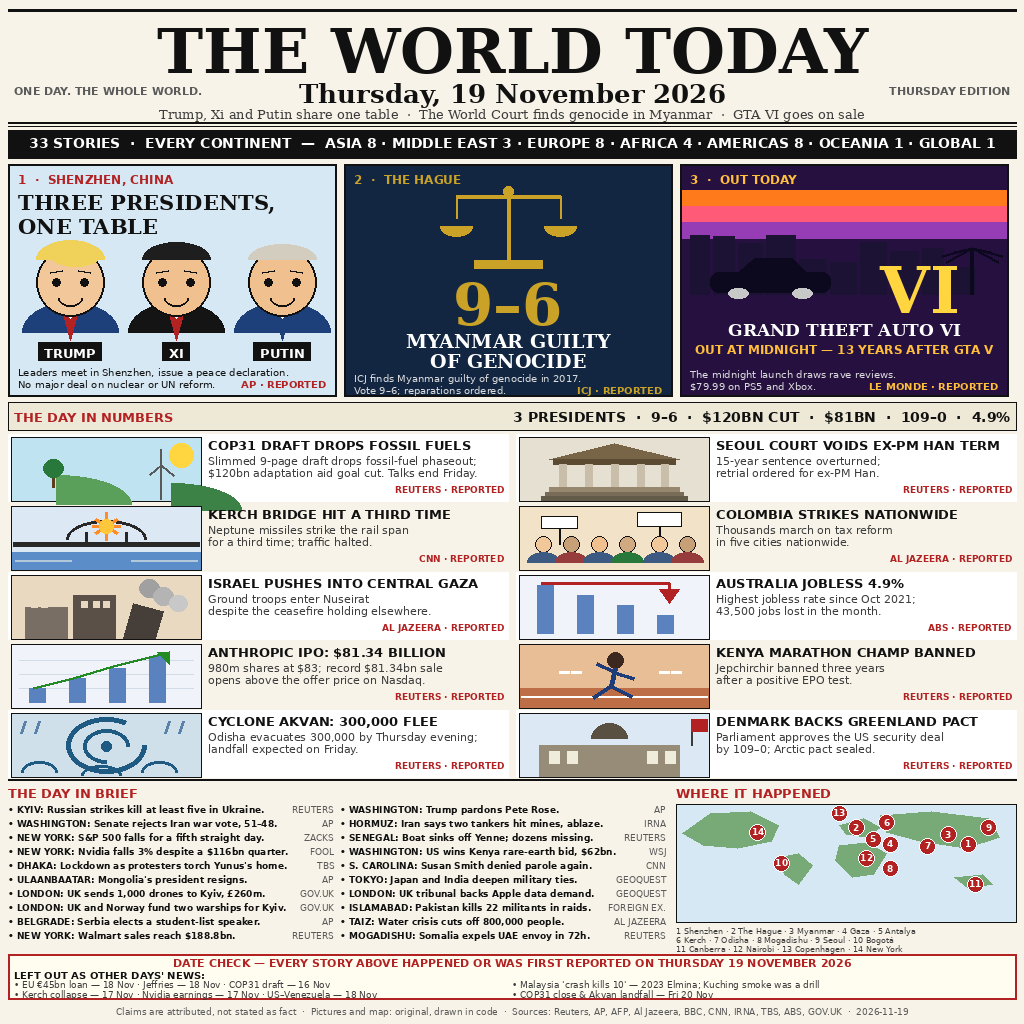
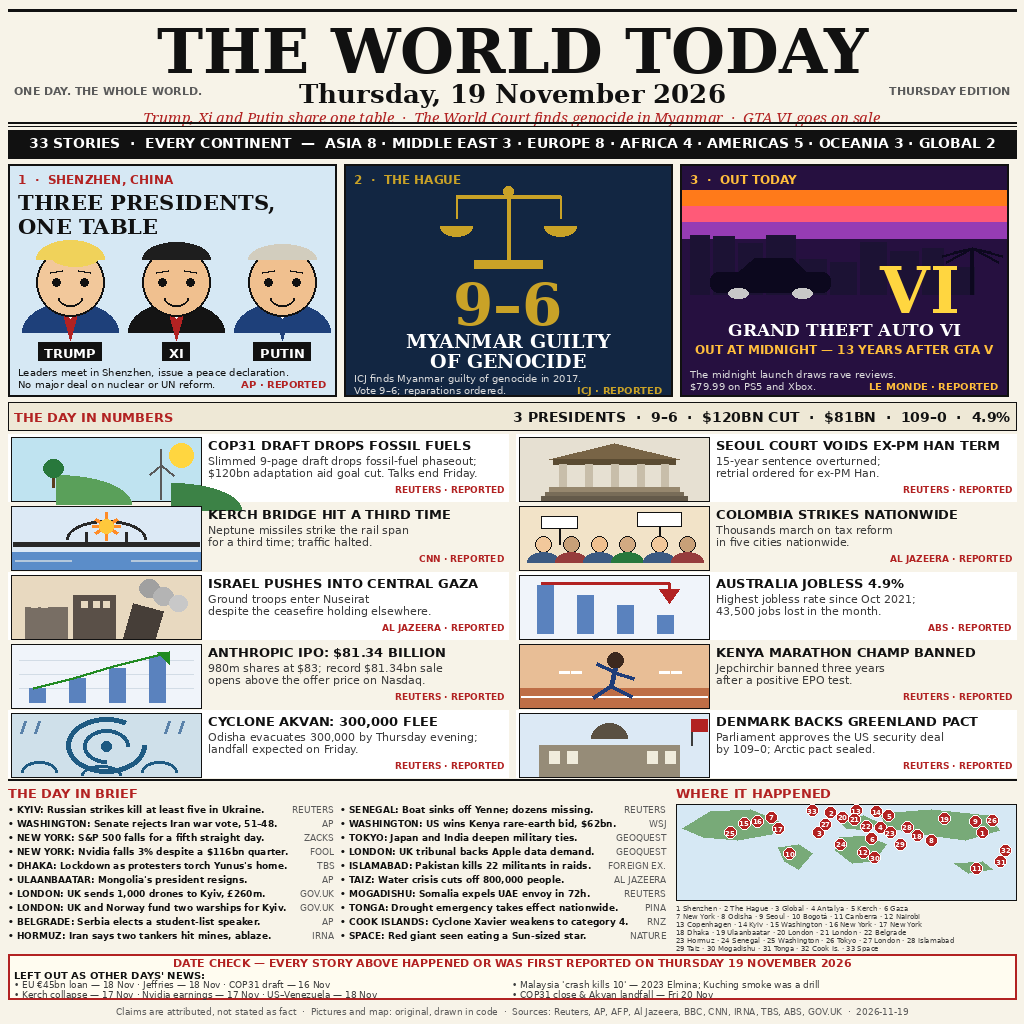
News image v5: regional spread rebalance (Oceania/Global), full 33-location map legend, larger red italic sub-headline

diff --git a/main.py b/main.py
@@ -1,5 +1,5 @@
 #!/usr/bin/env python3
-"""The World Today — v4 entry for news-image-20261119.
+"""The World Today — v5 entry for news-image-20261119.
 
 Copies the pre-drawn broadsheet (33 verified stories from Thursday
 19 November 2026) to the output directory as entry.png.
